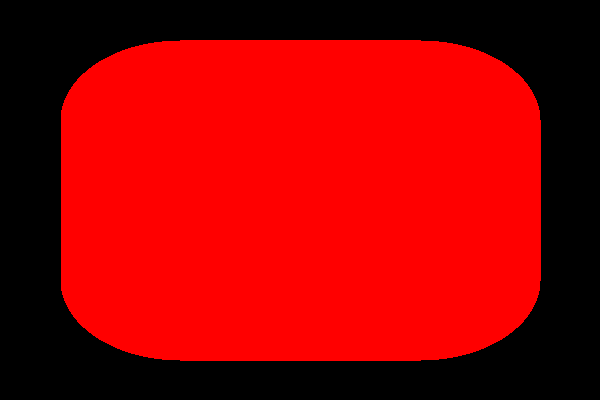
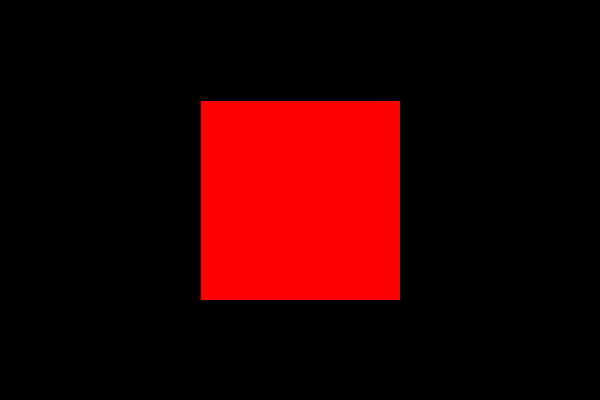
Better approach to parsing

diff --git a/forgedtiles/src/compiler.rs b/forgedtiles/src/compiler.rs
@@ -65,13 +65,14 @@ impl Compiler {
         }
     }
 
+    /// Compile the given code.
     pub fn compile(&mut self, code: String) -> Result<FTContext, FTError> {
         let mut context = FTContext::new();
 
         self.scanner = Scanner::new(code);
 
         self.curr_parent = None;
-        self.add_to_context(&mut context);
+        self.parse(&mut context);
 
         if self.parser.error.is_some() {
             Err(self.parser.error.clone().unwrap())
@@ -80,39 +81,18 @@ impl Compiler {
         }
     }
 
-    pub fn add_to_context(&mut self, ctx: &mut FTContext) {
+    /// Parse the code and add the content to the context.
+    pub fn parse(&mut self, ctx: &mut FTContext) {
         self.advance();
 
         while !self.matches(TokenType::Eof) {
-            let mut consumed = false;
-
-            if self.indent() == 0 {
-                if self.parser.current.indent == 0 {
-                    self.curr_parent = None;
-                }
-
-                if self.parser.current.kind == TokenType::Identifier {
-                    let id = self.parser.current.lexeme.as_str();
-
-                    match id {
-                        "Shape" => {
-                            let mut node = Node::new(NodeRole::Shape);
-                            self.advance();
-                            self.parse_node_properties(&mut node, ctx);
-                            consumed = true;
-
-                            ctx.shapes.push(ctx.nodes.len());
-                            ctx.nodes.push(node);
-                        }
-                        _ => {
-                            self.error_at_current("Unknown node.");
-                        }
-                    }
-                }
-            }
-
-            if !consumed {
-                self.advance();
+            if self.current().kind == TokenType::Let {
+                self.declaration(ctx);
+            } else {
+                self.error_at_current(&format!(
+                    "Unknown instruction '{}'.",
+                    self.parser.current.lexeme
+                ));
             }
 
             if self.parser.error.is_some() {
@@ -121,8 +101,101 @@ impl Compiler {
         }
     }
 
+    /// Declaration (let)
+    fn declaration(&mut self, ctx: &mut FTContext) {
+        //println!("declaration");
+
+        self.advance();
+        if let Some(target) =
+            self.consume(TokenType::Identifier, "Expected an identifier after 'let'.")
+        {
+            self.consume(TokenType::Equal, "Expected '='.");
+
+            if let Some(node_type) =
+                self.consume(TokenType::Identifier, "Expected an identifier after 'let'.")
+            {
+                let mut node: Option<Node> = None;
+
+                match node_type.as_str() {
+                    "Shape" => {
+                        self.consume(TokenType::Less, "Expected '<'.");
+                        if let Some(shape) = self.consume(
+                            TokenType::Identifier,
+                            "Expected a valid shape after 'Shape'.",
+                        ) {
+                            match shape.as_str() {
+                                "Rect" => {
+                                    node = Some(Node::new(NodeRole::Shape, NodeSubRole::Rect));
+                                }
+                                _ => self.error_at_current(&format!("Unknown shape '{}'.", shape)),
+                            }
+                        }
+                        self.consume(TokenType::Greater, "Expected '>'.");
+
+                        // Add the new node to the context.
+                        if let Some(node) = &mut node {
+                            node.name = target.clone();
+                            ctx.variables.insert(target, ctx.nodes.len());
+
+                            self.parse_node_properties(node, ctx);
+                            match &node.role {
+                                NodeRole::Shape => {
+                                    ctx.shapes.push(ctx.nodes.len());
+                                }
+                            }
+                            ctx.nodes.push(node.clone());
+                        }
+                    }
+                    _ => {
+                        self.error_at_current(&format!("Unknown type '{}'.", node_type));
+                    }
+                }
+            }
+        }
+    }
+
     /// Parses the properties for the given object
     fn parse_node_properties(&mut self, node: &mut Node, ctx: &mut FTContext) {
+        if self.check(TokenType::Colon) {
+            self.advance();
+        }
+
+        loop {
+            if self.check(TokenType::Semicolon) {
+                self.advance();
+                break;
+            }
+
+            if self.check(TokenType::Comma) {
+                self.advance();
+            }
+
+            if self.check(TokenType::Eof) {
+                break;
+            }
+
+            if let Some(property) = self.consume(
+                TokenType::Identifier,
+                &format!(
+                    "Expected property identifier, got '{}'.",
+                    self.parser.current.lexeme
+                ),
+            ) {
+                self.consume(TokenType::Equal, "Expected '=' after property name.");
+                if self.check(TokenType::Number) {
+                    if let Ok(number) = self.parser.current.lexeme.parse::<f32>() {
+                        println!("{} = {}", property, number);
+                        if !node.values.add_string_based(&property, vec![number]) {
+                            self.error_at_current(&format!("Unknown property {}", property));
+                        }
+                    }
+                }
+                self.advance();
+            }
+        }
+
+        return;
+
         node.indent = self.parser.current.indent;
         //println!("object on line {}", self.parser.current.line);
 
@@ -227,7 +300,7 @@ impl Compiler {
     }
 
     /// Advance one token and allow whitespace
-    fn advance_with_whitespace(&mut self) {
+    fn _advance_with_whitespace(&mut self) {
         self.parser.previous = self.parser.current.clone();
 
         loop {
@@ -239,24 +312,32 @@ impl Compiler {
         }
     }
 
+    /// Return a reference to the current token.
+    fn current(&self) -> &Token {
+        &self.parser.current
+    }
+
     /// Prints the current Token.
     fn debug_current(&mut self, msg: &str) {
         println!("{} {:?}", msg, self.parser.current);
     }
 
-    /// Consume the current token if the type matches
-    fn consume(&mut self, kind: TokenType, message: &str) {
+    /// Consume the current token if the type matches and return it's lexeme.
+    fn consume(&mut self, kind: TokenType, message: &str) -> Option<String> {
         if self.parser.current.kind == kind {
+            let lex = self.parser.current.lexeme.clone();
             self.advance();
-            return;
+            Some(lex)
+        } else {
+            self.error_at_current(message);
+            None
         }
-        self.error_at_current(message);
     }
 
     /// Consume the current token if the type matches
     fn _consume_with_whitespace(&mut self, kind: TokenType, message: &str) {
         if self.parser.current.kind == kind {
-            self.advance_with_whitespace();
+            self._advance_with_whitespace();
             return;
         }
         self.error_at_current(message);
@@ -290,6 +371,11 @@ impl Compiler {
     /// Error at the previous token
     fn _error(&mut self, message: &str) {
         self.error_at(self.parser.previous.clone(), message)
+    }
+
+    /// Returns true if we had an error during parsing.
+    fn has_error(&self) -> bool {
+        self.parser.error.is_some()
     }
 
     /// Error at the given token

diff --git a/forgedtiles/src/context.rs b/forgedtiles/src/context.rs
@@ -5,6 +5,8 @@ pub struct FTContext {
     pub nodes: Vec<Node>,
     pub shapes: Vec<usize>,
 
+    pub variables: FxHashMap<String, usize>,
+
     pub output: Option<usize>,
 }
 
@@ -19,6 +21,8 @@ impl FTContext {
         Self {
             nodes: vec![],
             shapes: vec![],
+
+            variables: FxHashMap::default(),
 
             output: None,
         }
@@ -39,9 +43,16 @@ impl FTContext {
                     let xx = x / width as f32;
                     let yy = 1.0 - y / height as f32;
 
+                    // vec2 p = (2.0*fragCoord-iResolution.xy)/iResolution.y;
+
+                    //let ratio = width as f32 / height as f32;
+
+                    let p = //vec2f(x, height as f32 - y);
+                    (2.0 * vec2f(x, y) - vec2f(width as f32, height as f32)) / height as f32;
+                    //let p = vec2f(x - width as f32 / 2.0, y - height as f32 / 2.0);
                     let mut color = vec3f(0.0, 0.0, 0.0);
 
-                    let d = sdf_box2d(vec2f(xx, yy) - vec2f(0.5, 0.5), 0.2, 0.2) - 0.2;
+                    let d = sdf_box2d(p, 0.5, 0.5); // - 0.2;
                     if d < 0.0 {
                         color.x = 1.0;
                     }
@@ -57,3 +68,22 @@ impl FTContext {
             });
     }
 }
+
+/*
+float fillMask(float dist)
+{
+    return clamp(-dist, 0.0, 1.0);
+}
+
+float innerBorderMask(float dist, float width)
+{
+    //dist += 1.0;
+    return clamp(dist + width, 0.0, 1.0) - clamp(dist, 0.0, 1.0);
+}
+
+float outerBorderMask(float dist, float width)
+{
+    //dist += 1.0;
+    return clamp(dist, 0.0, 1.0) - clamp(dist - width, 0.0, 1.0);
+}
+*/

diff --git a/forgedtiles/src/node.rs b/forgedtiles/src/node.rs
@@ -5,47 +5,34 @@ pub enum NodeRole {
     Shape,
 }
 
+#[derive(PartialEq, Clone, Debug)]
+pub enum NodeSubRole {
+    Rect,
+}
+
 use NodeRole::*;
 
 #[derive(Debug, Clone)]
 pub struct Node {
     pub role: NodeRole,
+    pub sub_role: NodeSubRole,
 
     pub name: String,
-    pub childs: Vec<usize>,
-    pub elements: Vec<usize>,
-
     pub values: FTValues,
-
-    //pub object: Object,
-    pub texture: Option<usize>,
 
     pub indent: usize,
 }
 
 impl Node {
-    pub fn new(role: NodeRole) -> Self {
+    pub fn new(role: NodeRole, sub_role: NodeSubRole) -> Self {
         Self {
             role,
-            name: "".to_string(),
-            childs: vec![],
-            elements: vec![],
+            sub_role,
 
+            name: "".to_string(),
             values: FTValues::default(),
 
-            //object: Object::Empty,
-            texture: None,
             indent: 0,
         }
     }
-
-    // Returns the type of the node object.
-    // pub fn get_node_type(&self) -> NodeType {
-    //     match &self.object {
-    //         Object::AnalyticalObject(_v) => Object3D,
-    //         Object::SDF3D(_v) => Object3D,
-    //         Object::Element2D(_v) => Element2D,
-    //         _ => Unknown,
-    //     }
-    // }
 }

diff --git a/forgedtiles/src/lib.rs b/forgedtiles/src/lib.rs
@@ -16,6 +16,7 @@ pub mod prelude {
     pub use crate::value::*;
     pub use crate::ForgedTiles;
     pub use maths_rs::prelude::*;
+    pub use rustc_hash::*;
 }
 
 use compiler::Compiler;
